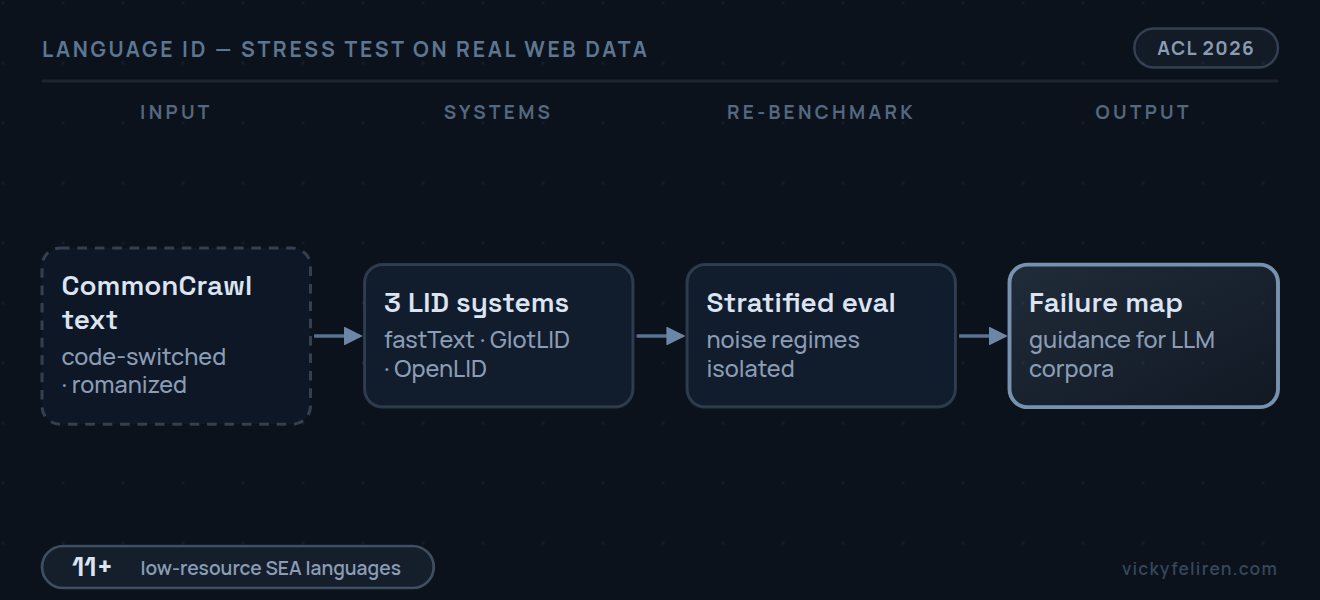
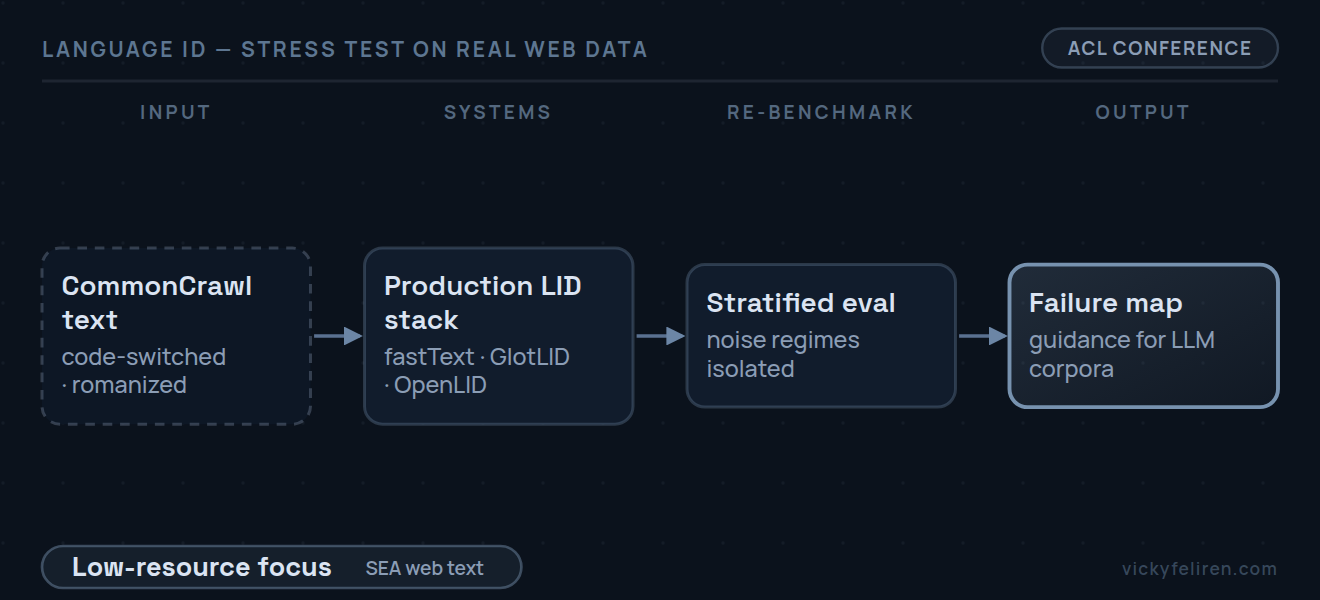
Strip all numeric wording from pipeline diagrams
Enterprise-grade pass over the 19 use case banners: every quantitative
claim (metrics, counts, percentages, sizes, years) is removed from
node labels, venue chips, and KPI chips, which are now qualitative
outcome chips (e.g. "State of the art · benchmark flood segmentation",
"Bank-grade · uptime under surge"). Product nomenclature that contains
digits (Sentinel-2, INT8, V100, ZeRO-2, Qwen2.5-VL-3B) is deliberately
retained. A programmatic digit audit in the review step enforces the
rule.

The generator now also emits _data/uc_banners.yml (alt text derived
from the same specs), making scripts/generate_uc_banners.py the single
source of truth; the numeric flow: blocks are removed from
usecases.yml and the card template reads the generated data file.

Claude-Session: https://claude.ai/code/session_01K9goszugN7pPFR23Ap9tTC

Changed region(s): [[0.2795, 0.39, 0.497, 0.72], [0.0311, 0.9, 0.4038, 0.99], [0.7765, 0.03, 0.9629, 0.12]]

diff --git a/scripts/generate_uc_banners.py b/scripts/generate_uc_banners.py
@@ -90,22 +90,22 @@ SPECS = [
   dict(
     id="procaenet-flood-segmentation",
     eyebrow="FLOOD SEGMENTATION — MULTISPECTRAL EO PIPELINE",
-    chip="IEEE GRSL · Q1 · 2025",
+    chip="IEEE GRSL",
     lanes=["SATELLITE INPUT", "DUAL ENCODERS", "FUSION", "OUTPUT"],
     cols=[
       [("Sentinel-2 RGB", "visible bands", "in"),
        ("Sentinel-2 NIR", "water-sensitive", "in")],
       [("Dual encoders", "self-attention per branch", "proc")],
       [("Cross-attention", "fused at every skip scale", "proc")],
-      [("Flood extent masks", "zero-shot PlanetScope 3 m", "out")],
+      [("Flood extent masks", "zero-shot sensor transfer", "out")],
     ],
     edges=[((0, 0), (1, 0)), ((0, 1), (1, 0)), ((1, 0), (2, 0)), ((2, 0), (3, 0))],
-    metrics=[("0.815", "IoU · Sen1Floods11"), ("0.898", "F1 vs 0.884 U-Net")],
+    metrics=[("State of the art", "benchmark flood segmentation")],
   ),
   dict(
     id="mining-footprint-segmentation",
     eyebrow="MINING FOOTPRINTS — MULTI-MODAL EO FUSION",
-    chip="RSE · Q1 · IF 11.4",
+    chip="REMOTE SENSING OF ENV",
     lanes=["INPUT STREAMS", "ENCODERS", "FUSION", "OUTPUT"],
     cols=[
       [("Sentinel-2 optical", None, "in"),
@@ -117,12 +117,12 @@ SPECS = [
     ],
     edges=[((0, 0), (1, 0)), ((0, 1), (1, 0)), ((0, 2), (1, 0)),
            ((1, 0), (2, 0)), ((2, 0), (3, 0))],
-    metrics=[("500 GB", "labelled imagery · GEE")],
+    metrics=[("Continental scale", "Earth Engine corpus")],
   ),
   dict(
     id="aquaculture-pond-detection",
     eyebrow="AQUACULTURE EXPANSION — CHANGE DETECTION",
-    chip="PATENT IDS000010594",
+    chip="PATENT FILED",
     lanes=["INPUT", "SPECTRAL SCREEN", "SHAPE FILTER", "OUTPUT"],
     cols=[
       [("Sentinel-2 stack", "multi-temporal revisits", "in")],
@@ -131,12 +131,12 @@ SPECS = [
       [("Expansion alerts", "Indonesia + Vietnam coasts", "out")],
     ],
     edges=[((0, 0), (1, 0)), ((1, 0), (2, 0)), ((2, 0), (3, 0))],
-    metrics=[("2", "geographies validated")],
+    metrics=[("Cross-regional", "coastline validation")],
   ),
   dict(
     id="flood-urban-resilience",
     eyebrow="FLOOD POLICY EVALUATION — EO × MIXED METHODS",
-    chip="AQUA · Q2 · 2025",
+    chip="AQUA JOURNAL",
     lanes=["EVIDENCE STREAMS", "TRIANGULATION", "OUTPUT"],
     cols=[
       [("ProCANet flood masks", None, "in"),
@@ -151,93 +151,93 @@ SPECS = [
   dict(
     id="multilingual-vlm-crossmodal-conflict",
     eyebrow="VLM SAFETY — CONFLICT, PROBING & STEERING",
-    chip="APART RESEARCH · 2026",
+    chip="APART RESEARCH",
     lanes=["BENCHMARK", "EVALUATION", "MECHANISTIC", "INTERVENTION"],
     cols=[
-      [("Conflict benchmark", "EN · HI · TE · 4 domains", "in")],
-      [("9 open VLMs", "10,260 evaluations", "proc")],
-      [("Linear probes", "residual stream · 5-fold CV", "proc")],
-      [("Cross-lingual steering", "text-override driven to 0", "out")],
+      [("Conflict benchmark", "EN · HI · TE · multi-domain", "in")],
+      [("Open VLM cohort", "multilingual evaluation", "proc")],
+      [("Linear probes", "residual-stream readout", "proc")],
+      [("Cross-lingual steering", "text-override eliminated", "out")],
     ],
     edges=[((0, 0), (1, 0)), ((1, 0), (2, 0)), ((2, 0), (3, 0))],
-    metrics=[("0.92", "probe accuracy · Telugu")],
+    metrics=[("Transferable", "EN-fit steering direction")],
   ),
   dict(
     id="sea-vl-benchmark",
     eyebrow="SEA-VL — MULTICULTURAL BENCHMARK PIPELINE",
-    chip="ACL 2025 · MAIN CONF",
+    chip="ACL · MAIN CONFERENCE",
     lanes=["CROWDSOURCING", "QUALITY PIPELINE", "DATASET", "AUDIT"],
     cols=[
-      [("100+ annotators", "11 SEA countries", "in")],
+      [("Community annotators", "across SEA countries", "in")],
       [("Dedup + HITL review", "pHash · CLIP · SigLIP", "proc")],
       [("SEA-VL dataset", "culturally grounded VQA", "proc")],
       [("Frontier audit", "GPT-4V · Gemini · Claude", "out")],
     ],
     edges=[((0, 0), (1, 0)), ((1, 0), (2, 0)), ((2, 0), (3, 0))],
-    metrics=[("10K+", "image-question pairs")],
+    metrics=[("Community-built", "culturally grounded corpus")],
   ),
   dict(
     id="gg-ez-regional-adaptation",
     eyebrow="REGIONAL ADAPTATION — MERGE WITHOUT FORGETTING",
-    chip="UNDER REVIEW · 2026",
+    chip="UNDER REVIEW · ARXIV",
     lanes=["INPUTS", "ADAPTATION", "MERGE", "OUTPUT"],
     cols=[
       [("SEA visual corpus", "curated regional", "in"),
        ("SDXL base weights", "general-purpose", "in")],
       [("Diffusion fine-tune", "cultural adaptation arm", "proc")],
       [("Linear weight merge", "regional ↔ global blend", "proc")],
-      [("Adapted model", "cultural score\n1.569 vs 1.491", "out")],
+      [("Adapted model", "cultural fidelity improved", "out")],
     ],
     edges=[((0, 0), (1, 0)), ((1, 0), (2, 0)), ((0, 1), (2, 0), 28), ((2, 0), (3, 0))],
-    metrics=[("98%+", "global quality retained")],
+    metrics=[("Quality retained", "global benchmarks intact")],
   ),
   dict(
     id="commonlid-language-identification",
     eyebrow="LANGUAGE ID — STRESS TEST ON REAL WEB DATA",
-    chip="ACL 2026",
+    chip="ACL CONFERENCE",
     lanes=["INPUT", "SYSTEMS", "RE-BENCHMARK", "OUTPUT"],
     cols=[
       [("CommonCrawl text", "code-switched · romanized", "in")],
-      [("3 LID systems", "fastText · GlotLID · OpenLID", "proc")],
+      [("Production LID stack", "fastText · GlotLID · OpenLID", "proc")],
       [("Stratified eval", "noise regimes isolated", "proc")],
       [("Failure map", "guidance for LLM corpora", "out")],
     ],
     edges=[((0, 0), (1, 0)), ((1, 0), (2, 0)), ((2, 0), (3, 0))],
-    metrics=[("11+", "low-resource SEA languages")],
+    metrics=[("Low-resource focus", "SEA web text")],
   ),
   dict(
     id="share-of-voice-forecasting",
     eyebrow="SOV FORECASTING — CALIBRATED UNCERTAINTY",
-    chip="ARTEFACT · 2025",
+    chip="ARTEFACT",
     lanes=["DATA", "MODEL", "UNCERTAINTY", "DELIVERY"],
     cols=[
       [("SimilarWeb + Traackr", "competitive intel", "in"),
        ("Client media data", "BigQuery · dbt", "in")],
       [("XGBoost", "SHAP-validated forecasts", "proc")],
-      [("Split conformal", "calibrated 90% intervals", "proc")],
-      [("Planning dashboards", "Streamlit · 6 APAC markets", "out")],
+      [("Split conformal", "distribution-free intervals", "proc")],
+      [("Planning dashboards", "Streamlit · APAC markets", "out")],
     ],
     edges=[((0, 0), (1, 0)), ((0, 1), (1, 0)), ((1, 0), (2, 0)), ((2, 0), (3, 0))],
-    metrics=[("90%", "PI coverage target"), ("-40%", "reporting latency")],
+    metrics=[("Calibrated", "coverage-guaranteed intervals"), ("Faster", "stakeholder reporting")],
   ),
   dict(
     id="biometric-authentication-credit-scoring",
     eyebrow="BIOMETRIC AUTH & ALT-CREDIT — PRODUCTION ML",
-    chip="GDP LABS · 2021–23",
+    chip="GDP LABS",
     lanes=["TRAFFIC", "INFERENCE", "SERVICE", "CREDIT"],
     cols=[
-      [("1M+ daily logins", "surge traffic", "in")],
+      [("Login surge traffic", "major bank clients", "in")],
       [("MobileNet · OpenVINO", "CPU-optimised runtime", "proc")],
       [("Verification API", "sync + async load-tested", "proc")],
       [("Credit scorecard", "points-based · explainable", "out")],
     ],
     edges=[((0, 0), (1, 0)), ((1, 0), (2, 0)), ((2, 0), (3, 0))],
-    metrics=[("99.99%", "uptime"), ("+35%", "approval efficiency")],
+    metrics=[("Bank-grade", "uptime under surge"), ("Explainable", "regulator-ready scoring")],
   ),
   dict(
     id="fraud-detection-pipeline",
     eyebrow="FRAUD DETECTION — STREAMING MULTI-STAGE",
-    chip="GDP LABS · 2021–23",
+    chip="GDP LABS",
     lanes=["INGESTION", "PRE-FILTER", "DETECTION", "DECISIONS"],
     cols=[
       [("Kafka stream", "Redis online features", "in")],
@@ -247,7 +247,7 @@ SPECS = [
     ],
     edges=[((0, 0), (1, 0)), ((1, 0), (2, 0)), ((2, 0), (3, 0))],
     loop=dict(frm=(3, 0), to=(2, 0), label="HITL labels · continuous retraining"),
-    metrics=[("3", "attack types covered")],
+    metrics=[("Multi-vector", "attack-type coverage")],
   ),
   dict(
     id="municipal-waste-forecasting",
@@ -255,18 +255,18 @@ SPECS = [
     chip="JAKARTA SMART CITY",
     lanes=["CITIZEN DATA", "FORECASTING", "CAUSAL CHECK", "OPERATIONS"],
     cols=[
-      [("JAKI · Qlue reports", "100K+ · 10M residents", "in")],
+      [("JAKI · Qlue reports", "citywide citizen data", "in")],
       [("Prophet ensemble", "vs ARIMA · SARIMA", "proc")],
-      [("DiD analysis", "2020 plastic-bag ban", "proc")],
+      [("DiD analysis", "plastic-bag ban rollout", "proc")],
       [("Route planning", "Tableau · per district", "out")],
     ],
     edges=[((0, 0), (1, 0)), ((1, 0), (2, 0)), ((2, 0), (3, 0))],
-    metrics=[("+15%", "operational efficiency")],
+    metrics=[("Leaner routing", "operational efficiency gains")],
   ),
   dict(
     id="demand-forecasting-consulting",
     eyebrow="DEMAND FORECASTING — CONSULTING CADENCE",
-    chip="ARTEFACT · 2025",
+    chip="ARTEFACT",
     lanes=["TRIAGE", "MODELLING", "VALIDATION", "HANDOFF"],
     cols=[
       [("Data triage", "quality audit · BigQuery", "in")],
@@ -275,11 +275,11 @@ SPECS = [
       [("Documented handoff", "model card · retraining", "out")],
     ],
     edges=[((0, 0), (1, 0)), ((1, 0), (2, 0)), ((2, 0), (3, 0))],
-    metrics=[("2 wks", "sprint to demo"), ("2", "Fortune 500 clients")],
+    metrics=[("Sprint cadence", "triage to client demo")],
   ),
   dict(
     id="hakktaxi-ride-share",
-    eyebrow="RIDE-SHARE DEMAND — 48-HOUR BUILD",
+    eyebrow="RIDE-SHARE DEMAND — HACKATHON SPRINT",
     chip="AZURE APAC CHAMPION",
     lanes=["INPUT SIGNALS", "FEATURES", "MODEL", "OUTPUT"],
     cols=[
@@ -292,21 +292,21 @@ SPECS = [
     ],
     edges=[((0, 0), (1, 0)), ((0, 1), (1, 0)), ((0, 2), (1, 0)),
            ((1, 0), (2, 0)), ((2, 0), (3, 0))],
-    metrics=[("6 s", "ETA margin of error")],
+    metrics=[("Seconds-level", "ETA margin of error")],
   ),
   dict(
     id="telehealthmonitor-edge-ai",
     eyebrow="EDGE VITALS MONITORING — PRIVACY BY DESIGN",
-    chip="CAMBRIDGE · TOP 3 GLOBAL",
+    chip="CAMBRIDGE · CAMVSCOVID",
     lanes=["SENSOR", "ON-DEVICE CV", "OPTIMISATION", "UPLINK"],
     cols=[
       [("Camera feed", "chest-region video", "in")],
       [("Pose + optical flow", "respiratory-rate estimate", "proc")],
       [("On-device INT8", "ARM CPU · FP32→INT8", "proc")],
-      [("2G vitals uplink", "one float · no raw video", "out")],
+      [("2G vitals uplink", "vital signs only · no video", "out")],
     ],
     edges=[((0, 0), (1, 0)), ((1, 0), (2, 0)), ((2, 0), (3, 0))],
-    metrics=[("0 bytes", "raw biometrics transmitted")],
+    metrics=[("Privacy-preserving", "no raw video leaves device")],
   ),
   dict(
     id="community-ivr-voice-ai",
@@ -320,35 +320,35 @@ SPECS = [
       [("TTS response", "DTMF-familiar UX", "out")],
     ],
     edges=[((0, 0), (1, 0)), ((1, 0), (2, 0)), ((2, 0), (3, 0))],
-    metrics=[("40%", "of Indonesians lack smartphones")],
+    metrics=[("Smartphone-free", "offline community reach")],
   ),
   dict(
     id="plastic-bag-ban-causal-analysis",
     eyebrow="PLASTIC-BAG BAN — CAUSAL POLICY ANALYSIS",
-    chip="IEEE ICISS · 2021",
+    chip="IEEE ICISS",
     lanes=["CITIZEN DATA", "NLP", "CAUSAL INFERENCE", "FINDING"],
     cols=[
-      [("100K+ complaints", "JAKI · Qlue platforms", "in")],
+      [("Citizen complaints", "JAKI · Qlue platforms", "in")],
       [("Text classification", "waste-type taxonomy", "proc")],
       [("DiD estimation", "mobility + season controls", "proc")],
       [("Causal verdict", "fewer plastic complaints", "out")],
     ],
     edges=[((0, 0), (1, 0)), ((1, 0), (2, 0)), ((2, 0), (3, 0))],
-    metrics=[("Significant", "post-ban reduction")],
+    metrics=[("Significant", "post-ban complaint decline")],
   ),
   dict(
     id="aicity-qwen-vl",
-    eyebrow="VLM FINE-TUNING — 14 GB MEMORY BUDGET",
-    chip="AI CITY CHALLENGE 2026",
+    eyebrow="VLM FINE-TUNING — CONSTRAINED GPU MEMORY",
+    chip="AI CITY CHALLENGE",
     lanes=["DATASET", "MEMORY FIT", "PEFT", "TRAINING"],
     cols=[
-      [("Traffic video QA", "Track 2 corpus", "in")],
+      [("Traffic video QA", "challenge corpus", "in")],
       [("Dataset re-pack", "per-step memory cut", "proc")],
-      [("LoRA r=16", "Qwen2.5-VL-3B", "proc")],
-      [("ZeRO-2 training", "3 epochs · 14 GB V100", "out")],
+      [("LoRA adapters", "Qwen2.5-VL-3B", "proc")],
+      [("ZeRO-2 training", "on a commodity V100", "out")],
     ],
     edges=[((0, 0), (1, 0)), ((1, 0), (2, 0)), ((2, 0), (3, 0))],
-    metrics=[("1.46", "final train loss")],
+    metrics=[("Memory-bounded", "commodity-GPU training")],
   ),
   dict(
     id="llm-d-inference-scheduler",
@@ -362,7 +362,7 @@ SPECS = [
       [("vLLM backends", "Kubernetes-native", "out")],
     ],
     edges=[((0, 0), (1, 0)), ((1, 0), (2, 0)), ((2, 0), (3, 0))],
-    metrics=[("Go 1.24+", "contribution surface")],
+    metrics=[("Production-scale", "LLM request routing")],
   ),
 ]
 
@@ -616,6 +616,29 @@ svg {{ display:block; }}
 </style></head><body>{svg}</body></html>"""
 
 
+def build_alt(spec):
+    """Digit-consistent alt text derived from the diagram spec itself."""
+    stages = []
+    for col in spec["cols"]:
+        names = []
+        for title, sub, _k in col:
+            names.append(f"{title} ({sub})" if sub else title)
+        stages.append(" + ".join(names))
+    return "End-to-end pipeline diagram: " + " \u2192 ".join(stages)
+
+
+def write_alt_data(specs):
+    """Regenerate _data/uc_banners.yml (consumed by _pages/usecases.md)."""
+    import json
+    path = os.path.join(REPO, "_data", "uc_banners.yml")
+    lines = ["# AUTO-GENERATED by scripts/generate_uc_banners.py — do not edit by hand.\n"]
+    for spec in specs:
+        lines.append(f"{spec['id']}:\n  alt: {json.dumps(build_alt(spec), ensure_ascii=False)}\n")
+    with open(path, "w", encoding="utf-8") as f:
+        f.writelines(lines)
+    print("wrote", os.path.relpath(path, REPO))
+
+
 def main():
     ap = argparse.ArgumentParser()
     ap.add_argument("--only", help="comma-separated subset of ids")
@@ -656,6 +679,7 @@ def main():
                 pass
             print("rendered", os.path.relpath(png, REPO), f"{os.path.getsize(png) // 1024} KB")
         browser.close()
+    write_alt_data(SPECS)
 
 
 if __name__ == "__main__":

diff --git a/CLAUDE.md b/CLAUDE.md
@@ -261,10 +261,10 @@ Edit the appropriate file in `_data/`. For publications, only edit `_data/public
 3. `main.js` handles clicks on `.filter-pill, .filter` automatically for `.project-card` items; for other card types, add inline JS that reads `.filter-pill` clicks and toggles visibility
 
 ### Add or Edit a Use Case Pipeline Banner
-Cards on `/usecases/` show a pre-rendered pipeline diagram (`assets/img/usecases/<id>.png`, 1320x600 PNG) whenever the entry in `_data/usecases.yml` has a `flow:` key. The `flow:` steps are used only for the image `alt` text; the diagram itself is defined in the `SPECS` list inside `scripts/generate_uc_banners.py` (nodes, lanes, edges, KPI chips — keep every value faithful to the entry's `resolution:` content, no invented metrics). To add or change a banner:
-1. Edit the spec in `scripts/generate_uc_banners.py` (and the entry's `flow:` for alt text)
-2. Run `python3 scripts/generate_uc_banners.py --only <id>` (needs `pip install playwright pillow` + a Chromium binary)
-3. Commit the regenerated PNG. Entries without `flow:` (e.g. `vln-conformal-prediction`) render no banner.
+Cards on `/usecases/` show a pre-rendered pipeline diagram (`assets/img/usecases/<id>.png`, 1320x600 PNG) whenever `_data/uc_banners.yml` has an entry for the use case id. Both the PNGs and that data file (which holds the image `alt` text) are AUTO-GENERATED from the `SPECS` list inside `scripts/generate_uc_banners.py` — the single source of truth for nodes, lanes, edges, and outcome chips. Style rules: every claim faithful to the entry's `resolution:` content; NO numeric wording anywhere in the diagram (no metrics, counts, percentages, sizes, or years) — qualitative outcome chips only; product nomenclature containing digits (Sentinel-2, INT8, V100, ZeRO-2…) is allowed. To add or change a banner:
+1. Edit the spec in `scripts/generate_uc_banners.py`
+2. Run `python3 scripts/generate_uc_banners.py [--only <id>]` (needs `pip install playwright pillow` + a Chromium binary) — regenerates the PNG(s) and `_data/uc_banners.yml`
+3. Commit both. Use cases without a spec (e.g. `vln-conformal-prediction`) render no banner.
 
 ### Update Styles
 Edit `css/styles.css`, bump the version query string in `_layouts/default.html` (`?v=28` → `?v=29`), and update the matching entry in `sw.js` PRECACHE array.

diff --git a/_pages/usecases.md b/_pages/usecases.md
@@ -24,9 +24,9 @@ permalink: /usecases/
   {% unless ext_link %}{% if uc.doi %}{% assign ext_link = "https://doi.org/" | append: uc.doi %}{% endif %}{% endunless %}
   <article class="uc-card" data-category="{{ uc.category }}" data-index="{{ forloop.index }}">
 
-    {% if uc.flow %}
-    {% capture flow_alt %}{% for step in uc.flow %}{{ step.label }}{% if step.sub %} ({{ step.sub }}){% endif %}{% unless forloop.last %} → {% endunless %}{% endfor %}{% endcapture %}
-    <img class="uc-flow-img" src="/assets/img/usecases/{{ uc.id }}.png" alt="End-to-end pipeline diagram: {{ flow_alt | strip }}" width="1320" height="600" loading="lazy" decoding="async">
+    {% assign banner = site.data.uc_banners[uc.id] %}
+    {% if banner %}
+    <img class="uc-flow-img" src="/assets/img/usecases/{{ uc.id }}.png" alt="{{ banner.alt }}" width="1320" height="600" loading="lazy" decoding="async">
     {% endif %}
 
     <div class="uc-card-header">
